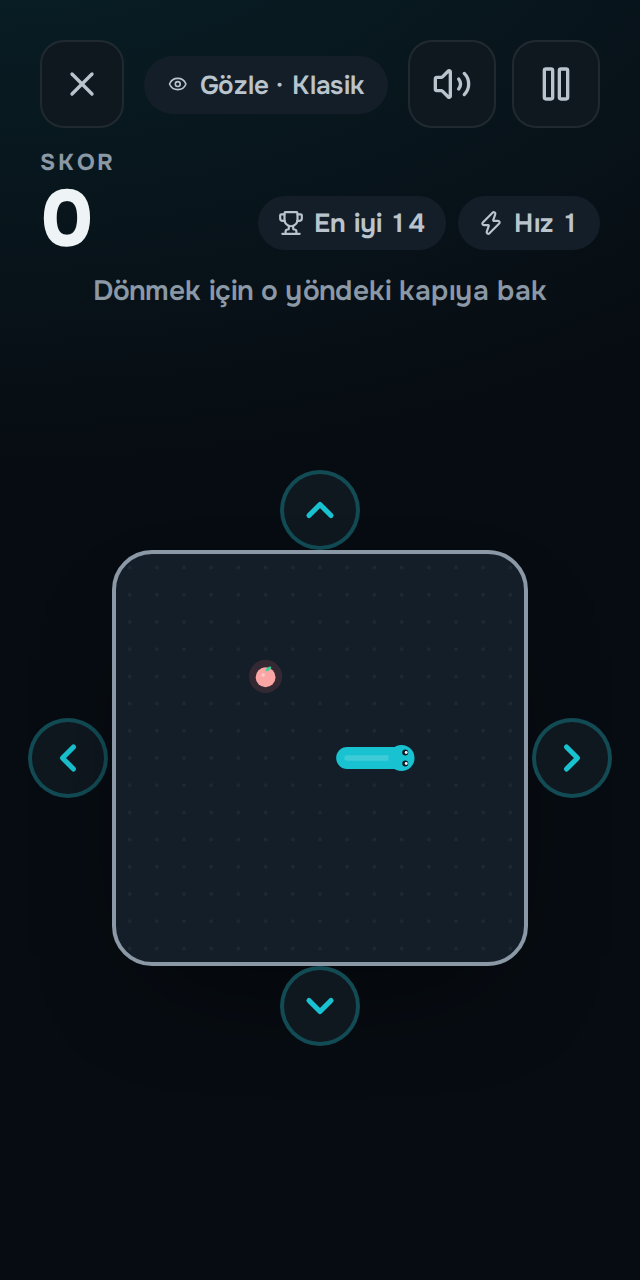
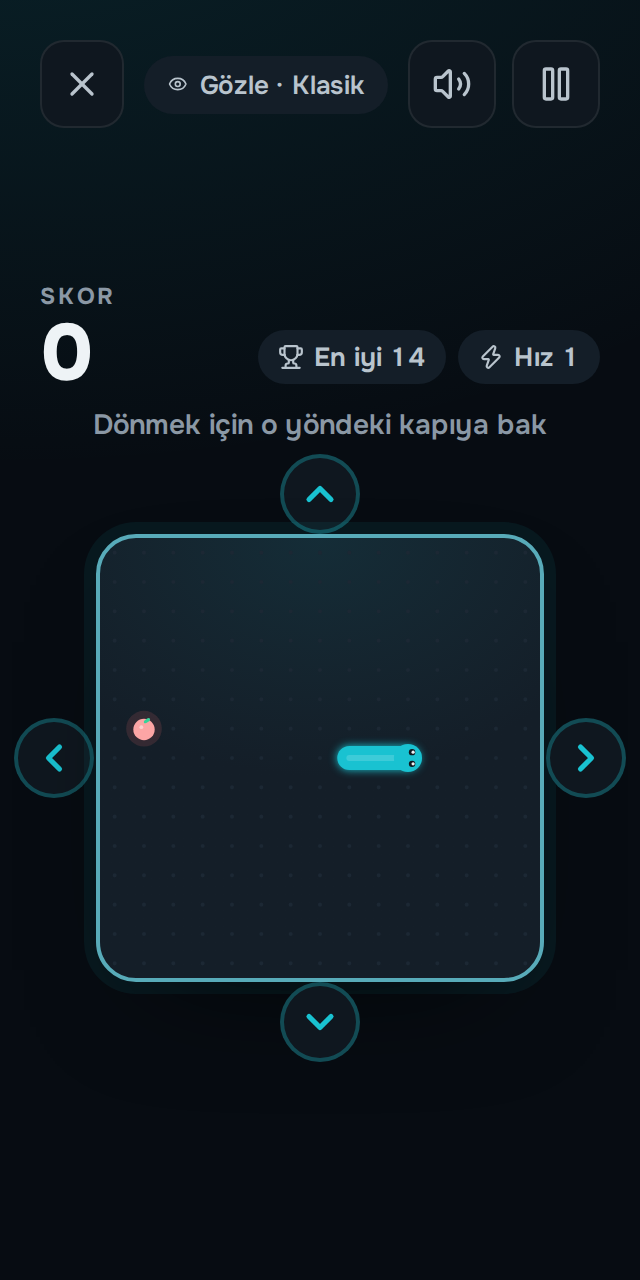
Yılan: 5 saniye tur 1 bulgularına göre ekran düzeltmeleri (ayar/kontrol başlığı, boş tahta, kapı simgeleri, sonuç amblemi, tahta derinliği)
Claude-Session: https://claude.ai/code/session_017cpTsgm5KvnDNXkCh5MZht

diff --git a/app/src/screens/SnakeGame.jsx b/app/src/screens/SnakeGame.jsx
@@ -204,7 +204,7 @@ function strokeBody(ctx, pts, cell, g) {
 }
 
 function renderScene(ctx, size, now, sc) {
-  const { g, prev, t, c, fx, crashAt, foodBorn } = sc
+  const { g, prev, t, c, fx, crashAt, foodBorn, empty } = sc
   const cell = size / g.cols
   ctx.clearRect(0, 0, size, size)
 
@@ -221,6 +221,9 @@ function renderScene(ctx, size, now, sc) {
     }
   }
   ctx.fill()
+
+  // Ayar ve kontrol sırasında tahta boş (yazının arkasından yılan/yem izi görünmesin)
+  if (empty) return
 
   // Yem: doğuşta büyür, sonra hafifçe nabız atar
   if (g.food) {
@@ -244,9 +247,14 @@ function renderScene(ctx, size, now, sc) {
   const pts = bodyPoints(prev, g.snake, t, g)
   ctx.lineCap = 'round'
   ctx.lineJoin = 'round'
+  // Yumuşak ışıma: yılan tahtanın üstünde parlasın
+  ctx.save()
+  ctx.shadowColor = c.body
+  ctx.shadowBlur = cell * 0.6
   ctx.strokeStyle = c.body
-  ctx.lineWidth = cell * 0.8
+  ctx.lineWidth = cell * 0.82
   strokeBody(ctx, pts, cell, g)
+  ctx.restore()
   ctx.strokeStyle = 'rgba(255, 255, 255, 0.16)' // boru parlaklığı
   ctx.lineWidth = cell * 0.2
   strokeBody(ctx, pts, cell, g)
@@ -847,6 +855,7 @@ export default function SnakeGame({ trueDepth = false, onFinish, onExit }) {
       fx: fxRef.current,
       crashAt: crashAtRef.current,
       foodBorn: foodBornRef.current,
+      empty: phaseRef.current === 'setup' || phaseRef.current === 'check',
     })
   }
 
@@ -1171,6 +1180,7 @@ export default function SnakeGame({ trueDepth = false, onFinish, onExit }) {
   }
 
   let overlay = null
+  let guideHead = null // ayar ve kontrolde talimat: tahtanın üstünde (skor satırının yerinde)
   if (phase === 'setup') {
     const n = SETUP_TARGETS.length
     const t = setupTarget
@@ -1185,15 +1195,24 @@ export default function SnakeGame({ trueDepth = false, onFinish, onExit }) {
         <button type="button" className="link-btn" onClick={toTouch}>Dokunarak oyna</button>
       </div>
     ) : (
-      <div className="snake-overlay snake-guide is-clear" role="status" aria-label="Yılan ayarı">
-        <span className="eyebrow">{setupUi.redo ? 'Ayarı yeniliyorum' : 'Yılan ayarı'} · {Math.min(setupUi.i + 1, n)}/{n}</span>
-        <h2>{t === 'center' || t === 'center2' ? 'Ortadaki noktaya bak' : `${DIR_GATE[t][0].toUpperCase()}${DIR_GATE[t].slice(1)} kapıya bak`}</h2>
-        {(t === 'center' || t === 'center2') && <span className="snake-aim" style={{ '--p': setupUi.progress }} aria-hidden="true" />}
-        <div className="snake-steps" aria-hidden="true">
-          {SETUP_TARGETS.map((d, i) => <i key={d} className={i < setupUi.i ? 'done' : i === setupUi.i ? 'now' : ''} />)}
-        </div>
+      <div className="snake-overlay snake-guide is-clear" aria-hidden="true">
+        {t === 'center' || t === 'center2' ? (
+          <span className="snake-aim" style={{ '--p': setupUi.progress }} />
+        ) : (
+          <span className="snake-pointer" style={{ transform: `rotate(${DIR_ANGLE[t]}deg)` }}><ArrowUp size={44} strokeWidth={2.6} /></span>
+        )}
       </div>
     )
+    if (!setupUi.failed)
+      guideHead = (
+        <div className="snake-guide-head" role="status" aria-live="polite">
+          <span className="eyebrow">{setupUi.redo ? 'Ayarı yeniliyorum' : 'Yılan ayarı'} · {Math.min(setupUi.i + 1, n)}/{n}</span>
+          <h2>{t === 'center' || t === 'center2' ? 'Ortadaki noktaya bak' : `${DIR_GATE[t][0].toUpperCase()}${DIR_GATE[t].slice(1)} kapıya bak`}</h2>
+          <div className="snake-steps" aria-hidden="true">
+            {SETUP_TARGETS.map((d, i) => <i key={d} className={i < setupUi.i ? 'done' : i === setupUi.i ? 'now' : ''} />)}
+          </div>
+        </div>
+      )
   } else if (phase === 'check') {
     const n = CHECK_DIRS.length
     const t = checkTarget
@@ -1211,14 +1230,22 @@ export default function SnakeGame({ trueDepth = false, onFinish, onExit }) {
         </div>
       </div>
     ) : (
-      <div className="snake-overlay snake-guide is-clear" role="status" aria-label="Bakış kontrolü">
-        <span className="eyebrow">Kontrol · {Math.min(checkUi.i + 1, n)}/{n}</span>
-        <h2>{t ? `${DIR_GATE[t][0].toUpperCase()}${DIR_GATE[t].slice(1)} kapıya bak` : 'Hazırsın'}</h2>
-        <div className="snake-steps" aria-hidden="true">
-          {CHECK_DIRS.map((d, i) => <i key={d} className={i < checkUi.i ? 'done' : i === checkUi.i ? 'now' : ''} />)}
+      <div className="snake-overlay snake-guide is-clear" aria-hidden="true">
+        <div className="snake-checks">
+          {CHECK_DIRS.map((d, i) => {
+            const Icon = EDGE_ICONS[d]
+            return <span key={d} className={i < checkUi.i ? 'done' : i === checkUi.i ? 'now' : ''}><Icon size={22} strokeWidth={3} /></span>
+          })}
         </div>
       </div>
     )
+    if (!checkUi.failed)
+      guideHead = (
+        <div className="snake-guide-head" role="status" aria-live="polite">
+          <span className="eyebrow">Kontrol · {Math.min(checkUi.i + 1, n)}/{n}</span>
+          <h2>{t ? `${DIR_GATE[t][0].toUpperCase()}${DIR_GATE[t].slice(1)} kapıya bak` : 'Hazırsın'}</h2>
+        </div>
+      )
   } else if (phase === 'countdown') {
     overlay = (
       <div className="snake-overlay is-light" role="status">
@@ -1259,7 +1286,9 @@ export default function SnakeGame({ trueDepth = false, onFinish, onExit }) {
     const gap = result.prevBest - result.score
     const isRecord = result.record && result.score > 0
     overlay = (
-      <section className="card snake-over-card" role="dialog" aria-modal="false" aria-labelledby="snake-over-title">
+      <section className={`card snake-over-card ${isRecord ? 'is-record' : ''}`} role="dialog" aria-modal="false" aria-labelledby="snake-over-title">
+        {isRecord && <span className="snake-confetti" aria-hidden="true">{Array.from({ length: 14 }, (_, i) => <i key={i} style={{ '--i': i }} />)}</span>}
+        <span className="snake-emblem" aria-hidden="true">{isRecord ? <Crown size={30} strokeWidth={2.4} /> : <SnakeArt />}</span>
         <h2 id="snake-over-title">{result.won ? 'Kazandın!' : 'Oyun bitti'}</h2>
         <p className="snake-overlay-sub">{reason}</p>
         <div className={`snake-final ${isRecord ? 'is-record' : ''}`}>
@@ -1347,7 +1376,7 @@ export default function SnakeGame({ trueDepth = false, onFinish, onExit }) {
         </div>
       </div>
 
-      <div className="snake-scorebar" hidden={over && Boolean(result)}>
+      <div className="snake-scorebar" hidden={(over && Boolean(result)) || phase === 'setup' || phase === 'check'}>
         <div className="snake-score">
           <span className="snake-score-label">Skor</span>
           <span className="snake-score-value">{hud.score}</span>
@@ -1366,7 +1395,8 @@ export default function SnakeGame({ trueDepth = false, onFinish, onExit }) {
         </div>
       </div>
 
-      {eyes && (
+      {guideHead}
+      {eyes && !guideHead && (
         <p className={`snake-status ${tone}`} aria-live="polite">{status ?? ' '}</p>
       )}
 

diff --git a/app/src/styles/snake.css b/app/src/styles/snake.css
@@ -198,7 +198,7 @@
 /* Canlı tahta önizlemesi: göz modunda dört kapıyla (oyundaki düzenin aynısı) */
 .snake-hero-art { position: relative; display: flex; justify-content: center; padding: 6px 0; }
 .snake-hero-art.is-eyes { padding: 30px 34px; }
-.snake-hero-art .snake-art { width: 100%; max-width: 300px; height: auto; }
+.snake-hero-art .snake-art { width: 100%; max-width: 340px; height: auto; filter: drop-shadow(0 10px 24px color-mix(in srgb, var(--accent) 22%, transparent)); }
 .snake-hero-gate {
   position: absolute; width: 28px; height: 28px; border-radius: 50%;
   display: inline-flex; align-items: center; justify-content: center;
@@ -285,9 +285,9 @@
 .snake-arena { display: flex; flex-direction: column; align-items: center; }
 /* Kapılar tahtanın DIŞINDA: tahtanın içine bakmak komut değildir (lib/snakeGaze.js) */
 .snake-arena.has-gates {
-  display: grid; grid-template-columns: 44px minmax(0, 1fr) 44px; grid-template-rows: 44px auto 44px;
+  display: grid; grid-template-columns: 42px minmax(0, 1fr) 42px; grid-template-rows: 48px auto 48px;
   grid-template-areas: '. up .' 'left board right' '. down .'; align-items: center; justify-items: center;
-  margin: 0 -8px;
+  margin: 0 -14px;
 }
 .snake-arena.has-gates .snake-board-wrap {
   grid-area: board;
@@ -314,17 +314,17 @@
 .snake-gate.left { grid-area: left; }
 .snake-gate.right { grid-area: right; }
 .snake-gate.is-target {
-  background: var(--accent-grad); color: var(--surface);
+  background: var(--accent-grad); color: var(--accent-ink);
   box-shadow: 0 0 0 6px color-mix(in srgb, var(--accent) 22%, transparent), var(--shadow-lg);
   animation: snake-gate-pulse 1.1s ease-in-out infinite;
 }
-.snake-gate.is-fired { background: var(--ok); color: var(--surface); }
+.snake-gate.is-fired { background: var(--ok); color: var(--accent-ink); }
 @keyframes snake-gate-pulse { 0%, 100% { transform: scale(1); } 50% { transform: scale(1.14); } }
 
 /* Ayar ve kontrol katmanı: tahtanın üstünde ama hafif; kapılar dışarıda görünür kalır */
 .snake-guide { justify-content: center; gap: 10px; }
 .snake-guide.is-clear { -webkit-backdrop-filter: none; backdrop-filter: none; }
-.snake-guide.is-clear::before { opacity: 0.9; }
+.snake-guide.is-clear::before { opacity: 0; }
 .snake-guide h2 { font-family: var(--font-display); font-size: 1.45rem; font-weight: 750; max-width: 16ch; }
 .snake-steps { display: flex; gap: 6px; }
 .snake-steps i { width: 22px; height: 5px; border-radius: 3px; background: var(--surface-3); }
@@ -346,7 +346,9 @@
 
 .snake-arena[hidden], .snake-scorebar[hidden] { display: none !important; }
 /* Göz modunda tahta boş kalan yüksekliğin ortasında */
-.snake-game.is-eyes .snake-arena { margin-top: auto; margin-bottom: auto; }
+.snake-game.is-eyes .snake-arena { margin-bottom: auto; }
+/* Göz modunda skor, durum ve tahta tek grup olarak dikeyde ortada */
+.snake-game.is-eyes .snake-scorebar, .snake-game.is-eyes .snake-guide-head { margin-top: auto; }
 /* Sonuç: tahtanın yerinde tam kart (küçük tahtaya sığmayan katman yerine) */
 .snake-over-card {
   align-items: center; text-align: center; gap: 8px; margin-top: auto; margin-bottom: auto;
@@ -357,3 +359,53 @@
 .snake-over-card .snake-overlay-btn { width: 100%; max-width: 320px; }
 .snake-over-card .link-btn { min-height: 44px; font-size: 0.9rem; }
 .snake-over-card .snake-final strong { font-size: 4.2rem; }
+
+/* ---------- Tur 2: derinlik, ayar/kontrol kimliği, sonuç amblemi ---------- */
+.snake-game.is-eyes .snake-board-wrap {
+  border-color: color-mix(in srgb, var(--accent) 45%, var(--ink-3));
+  background: radial-gradient(120% 90% at 50% 0%, color-mix(in srgb, var(--accent) 9%, var(--surface-2)), var(--surface-2) 60%);
+  box-shadow: var(--shadow-lg), 0 0 0 6px color-mix(in srgb, var(--accent) 7%, transparent);
+}
+.snake-pointer {
+  display: inline-flex; align-items: center; justify-content: center; width: 76px; height: 76px; border-radius: 50%;
+  color: var(--accent); background: var(--accent-soft);
+  animation: snake-pointer 1.1s ease-in-out infinite;
+}
+@keyframes snake-pointer { 0%, 100% { scale: 1; } 50% { scale: 1.08; } }
+.snake-checks { display: flex; gap: 8px; margin: 4px 0; }
+.snake-checks span {
+  width: 42px; height: 42px; border-radius: 50%; display: inline-flex; align-items: center; justify-content: center;
+  background: var(--surface-2); color: var(--ink-3); transition: background 0.2s ease, color 0.2s ease, transform 0.2s ease;
+}
+.snake-checks span.now { background: var(--accent-soft); color: var(--accent); transform: scale(1.12); box-shadow: 0 0 0 3px color-mix(in srgb, var(--accent) 35%, transparent); }
+.snake-checks span.done { background: var(--ok); color: var(--accent-ink); }
+.snake-checks span { width: 46px; height: 46px; }
+.snake-aim { width: 34px; height: 34px; }
+.snake-guide h2 { font-size: 1.6rem; }
+.snake-guide-head { display: flex; flex-direction: column; align-items: center; gap: 8px; text-align: center; }
+.snake-guide-head h2 { font-family: var(--font-display); font-size: 1.7rem; font-weight: 750; line-height: 1.15; }
+@media (max-height: 700px) { .snake-guide-head h2 { font-size: 1.35rem; } }
+
+.snake-over-card { position: relative; overflow: hidden; }
+.snake-emblem {
+  width: 84px; height: 84px; border-radius: 26px; display: inline-flex; align-items: center; justify-content: center;
+  background: var(--accent-soft); color: var(--accent); margin-bottom: 4px;
+  animation: snake-record 0.6s cubic-bezier(0.2, 0.9, 0.3, 1.4) both;
+}
+.snake-emblem .snake-art { width: 68px; height: auto; }
+.snake-over-card.is-record .snake-emblem { background: var(--accent-grad); color: var(--accent-ink); box-shadow: 0 10px 30px color-mix(in srgb, var(--accent) 35%, transparent); }
+.snake-confetti { position: absolute; inset: 0; pointer-events: none; }
+.snake-confetti i {
+  position: absolute; top: -10px; left: calc(6% + var(--i) * 6.5%); width: 8px; height: 14px; border-radius: 2px;
+  background: var(--accent-graphic); opacity: 0;
+  animation: snake-confetti 1.6s cubic-bezier(0.2, 0.7, 0.4, 1) calc(var(--i) * 60ms) both;
+}
+.snake-confetti i:nth-child(3n) { background: var(--danger); }
+.snake-confetti i:nth-child(3n + 1) { background: var(--ok); }
+@keyframes snake-confetti {
+  0% { opacity: 1; transform: translateY(0) rotate(0); }
+  100% { opacity: 0; transform: translateY(260px) rotate(320deg); }
+}
+@media (prefers-reduced-motion: reduce) {
+  .snake-pointer, .snake-confetti i, .snake-emblem { animation: none; }
+}

diff --git a/docs/yol-haritasi/tasarim/yilan/5SN_TABAN.md b/docs/yol-haritasi/tasarim/yilan/5SN_TABAN.md
@@ -16,3 +16,17 @@ Ortak bulgular (en az 3 değerlendiricide):
 - Oyun: tahta soluk, yılan ve yem küçük ve cansız; alttaki "Bakışla kontrol" kutusu yer kaplıyor; alt üçte bir boş (5/5).
 - Sonuç: duygusuz form; skor iki kez yazıyor; arkadaki bulanık oyun kalıntıları hata gibi; rekora ne kaldığı yok (5/5).
 - Dört ekranda da alt kısım boş. Güçlü yanlar: yazı tipi, iki tema tutarlı, 320'de düzen bozulmuyor.
+
+## Tur 1 · değişiklikten sonra (2026-10-02; ekranlar: giriş, ayar, kontrol, oyun, sonuç)
+
+| Ekran | Sonuç |
+|---|---|
+| 1 giriş | 0/5 |
+| 2 ayar | 0/5 |
+| 3 kontrol | 0/5 |
+| 4 oyun | 0/5 |
+| 5 sonuç | 0/5 |
+
+Ortak bulgular: giriş ayar formu gibi, 320'de seçenekler düğmenin arkasında kesik; ayar ve kontrolde üstte gereksiz skor
+satırı, yazının arkasında silik yılan/yem izi, kontrol ayardan ayırt edilmiyor; oyunda tahta boş ve renksiz, yılan küçük;
+sonuç temiz ama duygusuz. Güçlü yanlar: parlayan kapı talimatı net (3/5), kapılı düzen anlaşılır, sonuçta tek güçlü düğme.
